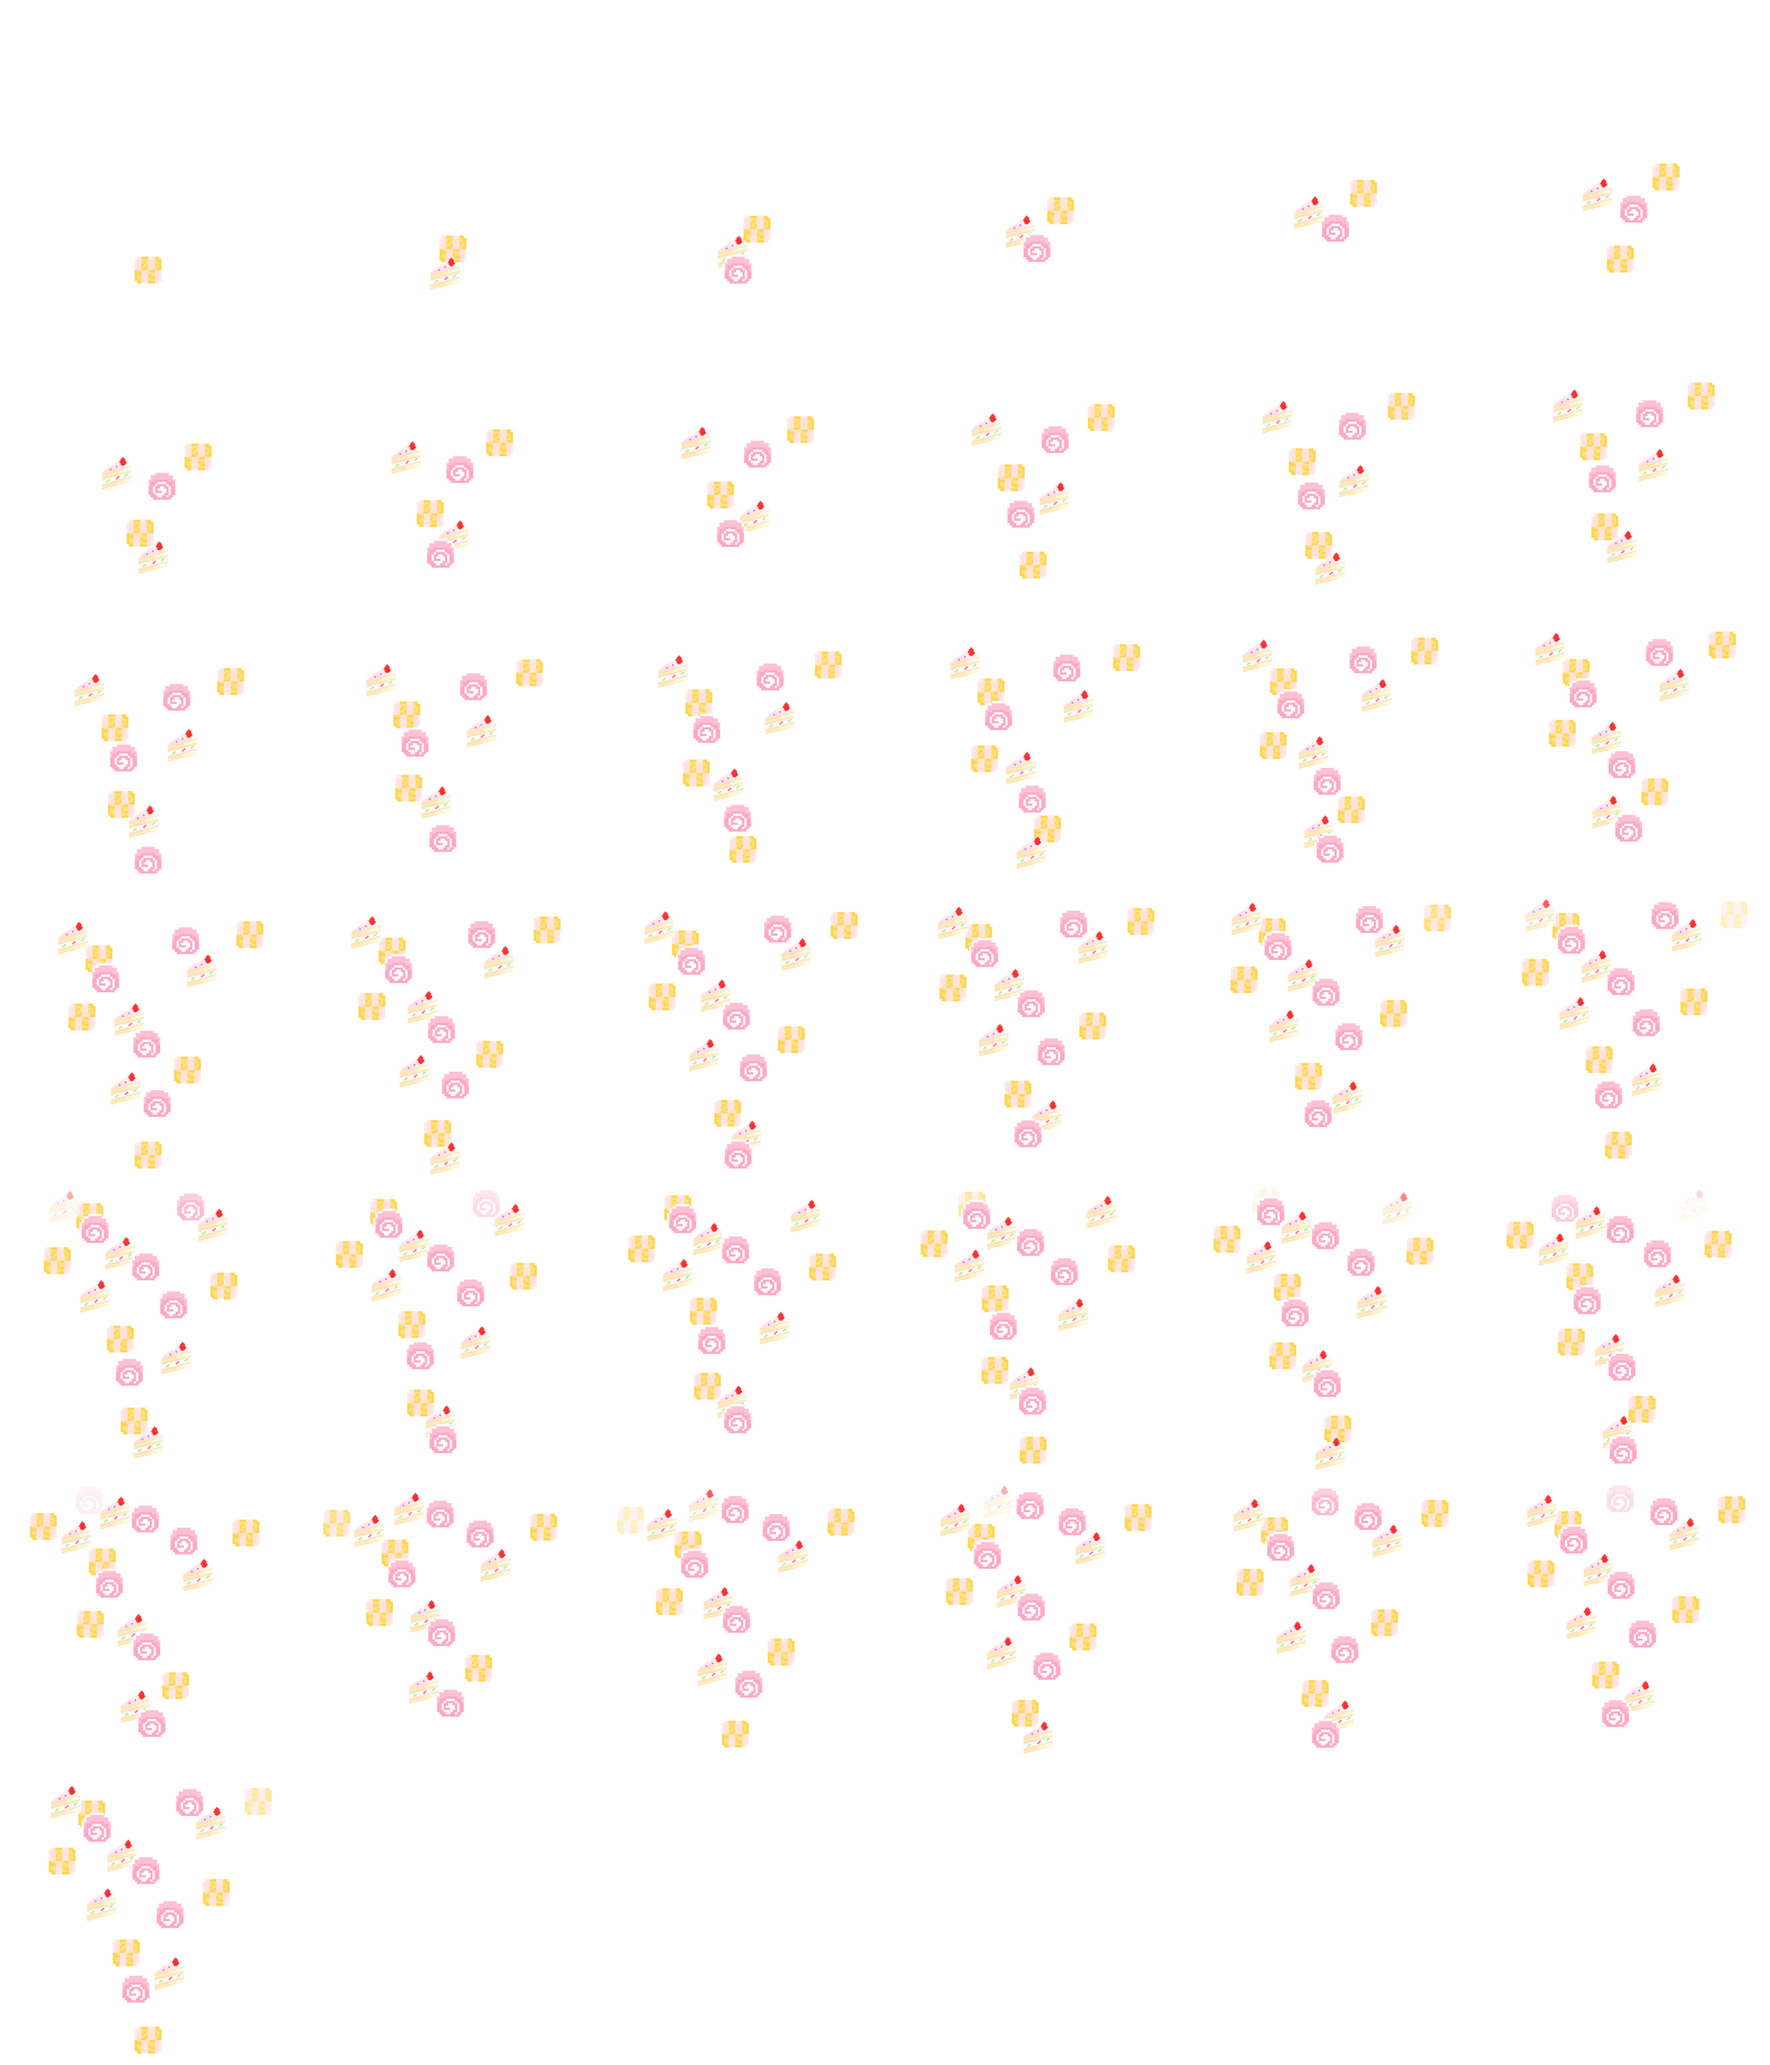
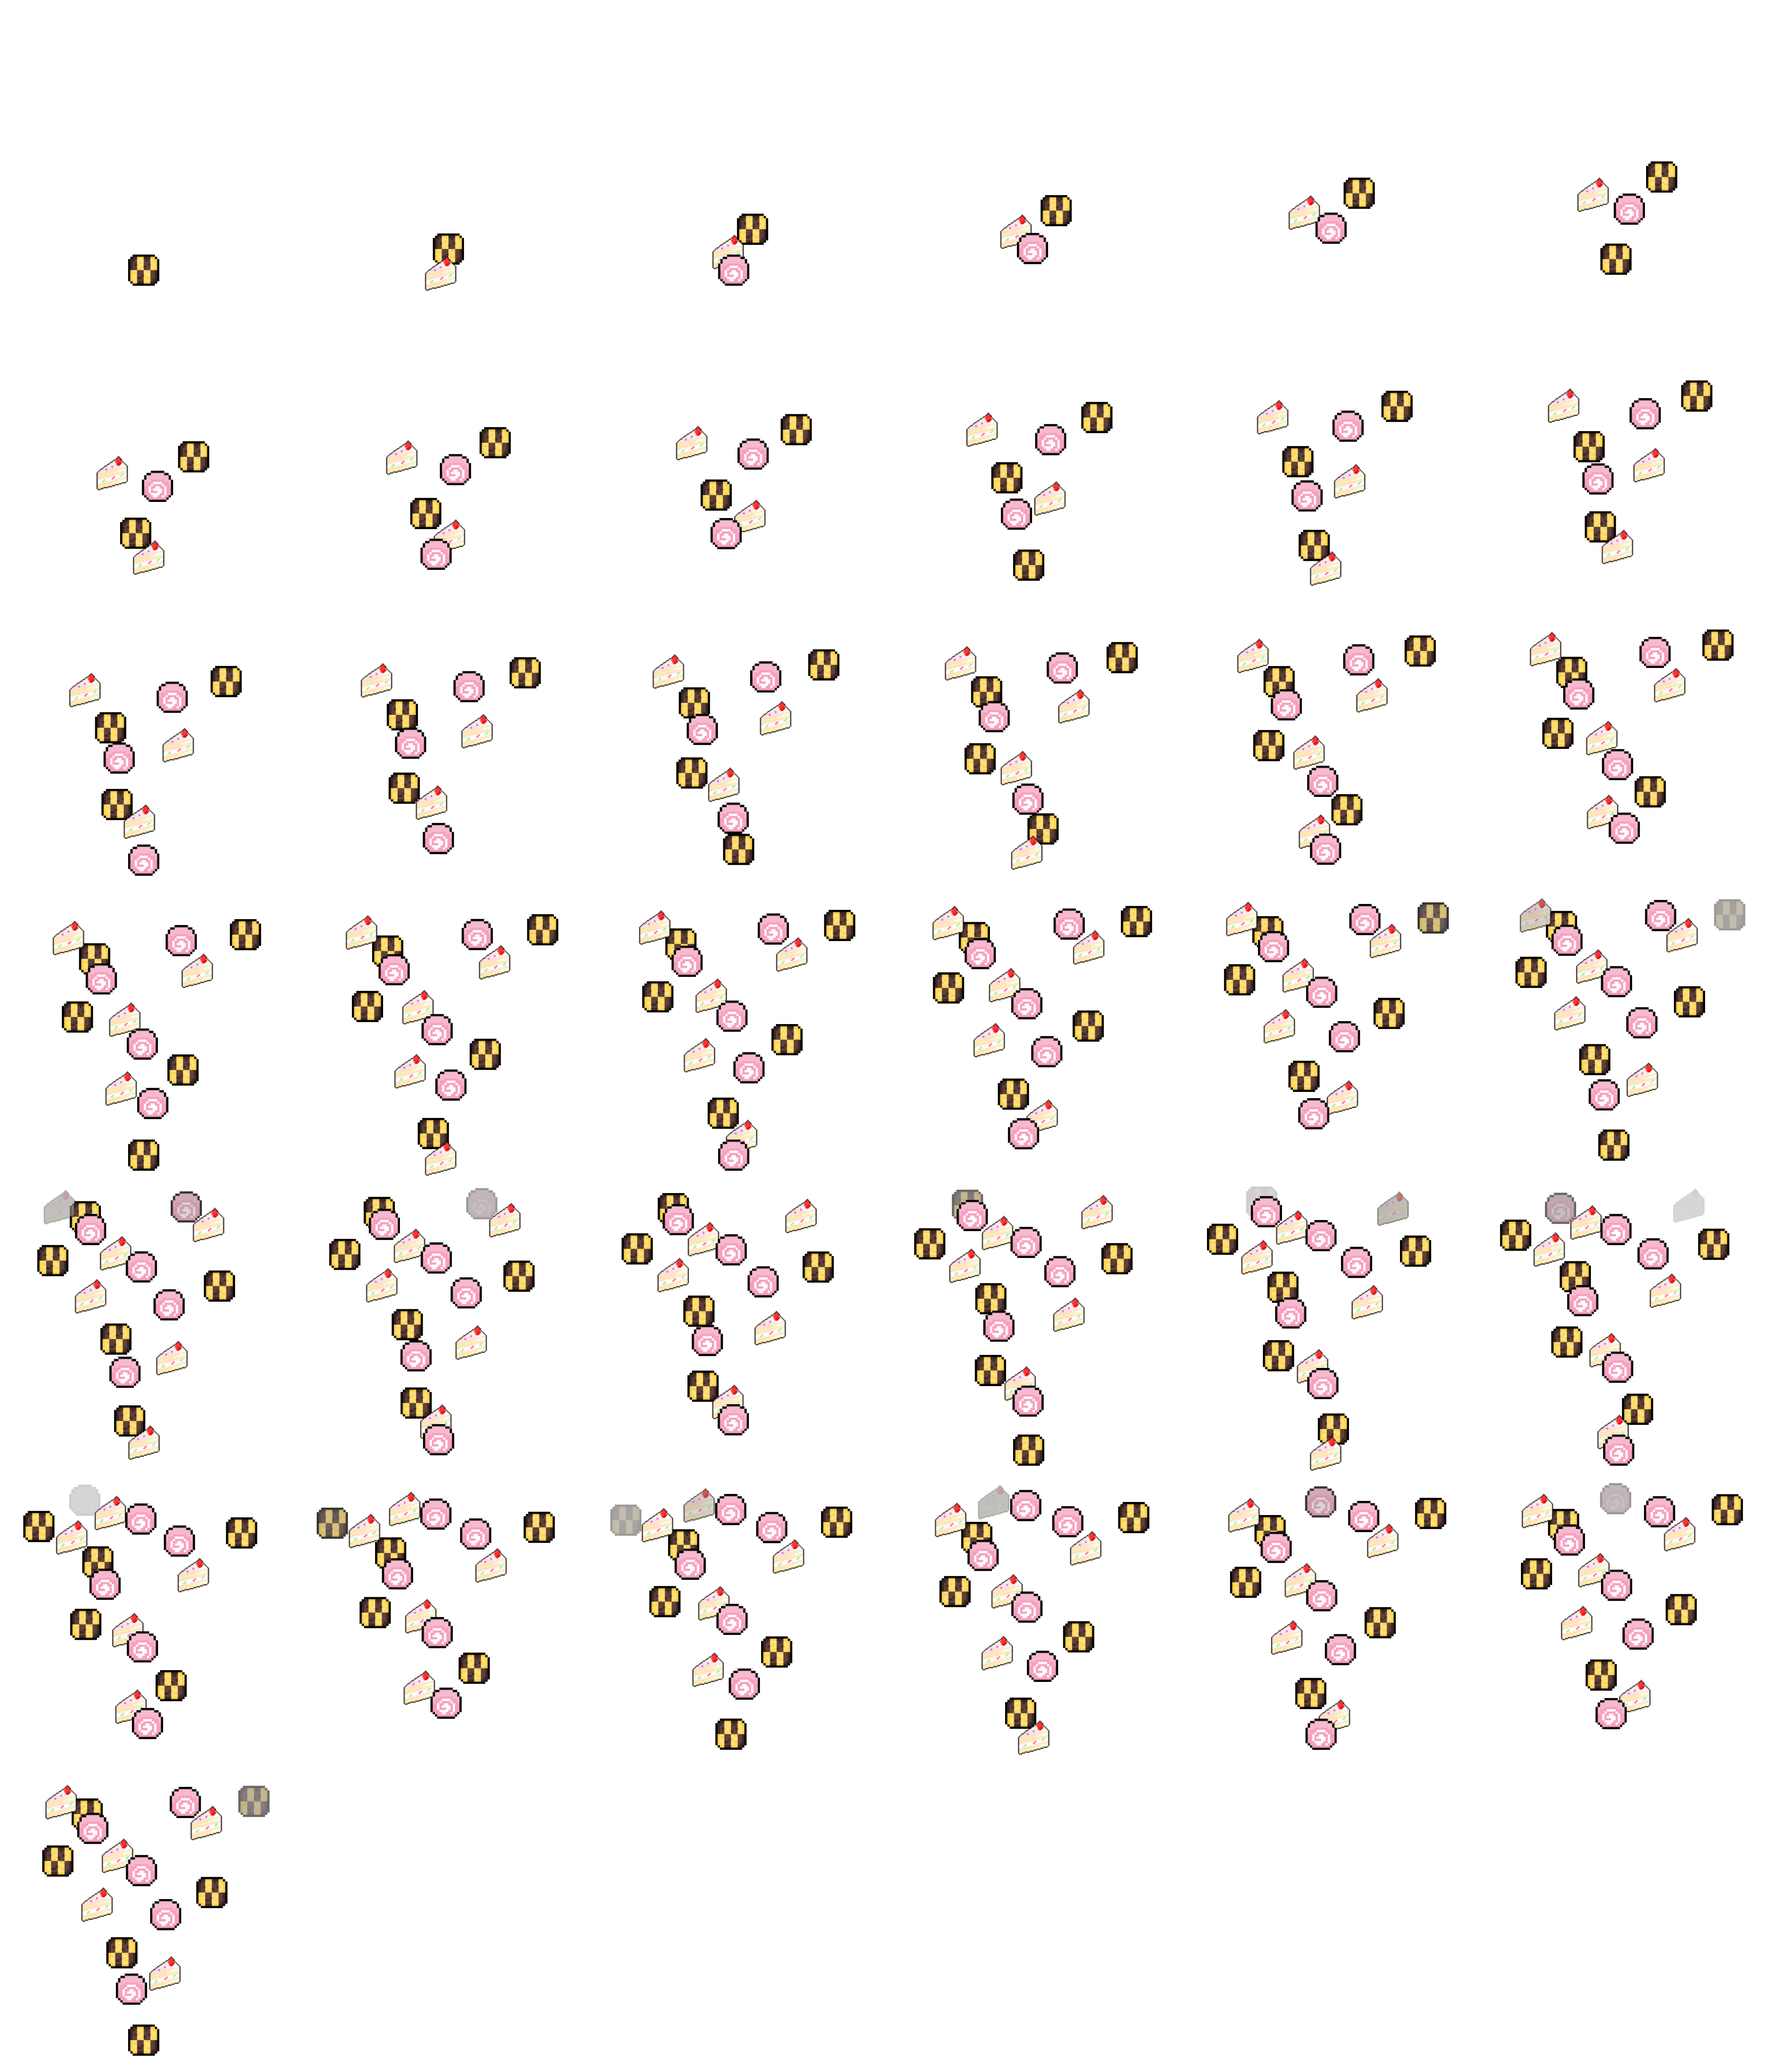
ゴールのアニメーション画像の変更

diff --git a/HewProject/HewProject/CGall.cpp b/HewProject/HewProject/CGall.cpp
@@ -33,7 +33,7 @@ void CGall::Update()
 		scale.x *= 1.5f;
 		scale.y *= 1.5f;
 		CEffect* set = EffectManeger::GetInstance()->Play(pos, scale, EffectManeger::FX_TYPE::BOX, true);
-		set->GetEffectAnim()->animSpeed =0.08f;
+		set->GetEffectAnim()->animSpeed =0.22f;
 		effect.push_back(set);
 		playEffect = true;
 	}
@@ -72,18 +72,39 @@ void CGall::Draw()
 
 void CGall::Open(D3DBUFFER vb ,float _animSpeedRate)
 {
+	for (auto it : effect)
+	{
+		CLASS_DELETE(it);
+	}
+		effect.clear();
 	dynamic_cast<GallAnim*>(mAnim)->PlayOpen(_animSpeedRate);
 	Vector3 pos = mTransform.pos;
-	pos.z -= 0.00001f;
-	pos.x += 0.0966 * mTransform.scale.x;
-	pos.y += 1.1f * mTransform.scale.y;
 	Vector3 scale = mTransform.scale;
-	scale.x *= 2.0;
-	scale.y *= 3.24f;
+	pos = mTransform.pos;
+	pos.z -= 0.00002f;
+	pos.x += 0.1206 * mTransform.scale.x;
+	pos.y -= 0.0866 * mTransform.scale.y;
+	scale = mTransform.scale;
+	scale.x *= 0.5f;
+	scale.y *= 0.4f;
+	CEffect* _set = EffectManeger::GetInstance()->Play(pos, scale, EffectManeger::FX_TYPE::BOX, true);
+	_set->GetEffectAnim()->animSpeed = 0.08f;
+	effect.push_back(_set);
+
+	pos = mTransform.pos;
+	scale = mTransform.scale;
+
+	pos.z -= 0.00003f;
+	pos.x += 0.1566 * mTransform.scale.x;
+	pos.y += 1.4f * mTransform.scale.y;
+	scale.x *= 3.0;
+	scale.y *= 3.24f; //1.62
 	CEffect* set = EffectManeger::GetInstance()->Play(pos, scale, EffectManeger::FX_TYPE::CLEAR, true);
 	set->GetEffectAnim()->animSpeed = 0.45f;
 	set->GetEffectAnim()->SetPattern(1);
 	set->SetVertexBuffer(vb);
 	//set->GetEffectAnim()->animSpeed = 0.08f;
 	effect.push_back(set);
+
+
 }

diff --git a/HewProject/HewProject/StageScene.cpp b/HewProject/HewProject/StageScene.cpp
@@ -452,10 +452,21 @@ void StageScene::StageMove()
 			player->GetPlayerMove()->CheckNextObjectType() == CGridObject::BlockType::GALL)
 		{
 			CGall* gallObj = dynamic_cast<CGall*>(GetStageObject(player->GetPlayerMove()->GetNextGridPos(), static_cast<CGridObject::BlockType>(player->GetPlayerMove()->CheckNextObjectType())));
+			player->dotween->DelayedCall(BREAK_TIME / 3.0f, [&]()
+				{
+					//player->GetPlayerAnim()->animSpeed = 0.0f;
+					player->GetPlayerAnim()->SetAnimSpeedRate(0.1f);
+				});
+			player->dotween->DelayedCall(BREAK_TIME / 2.7f, [&]()
+				{
+					player->GetPlayerAnim()->SetAnimSpeedRate(3.5f);
+				});
 			player->dotween->DelayedCall(BREAK_TIME /2.0f, [&,gallObj]()
 				{
-					//CCamera::GetInstance()->Zoom(0.2f,stageScale);
-					gallObj->Open(clearBuffer);
+					Vector2 pos = { gallObj->mTransform.pos.x ,gallObj->mTransform.pos.y };
+					//pos.y += 0.8f;
+					CCamera::GetInstance()->Zoom(0.2f, stageScale, { pos.x,pos.y, 0});
+					//gallObj->Open(clearBuffer);
 				});
 		}
 

diff --git a/HewProject/HewProject/CCamera.cpp b/HewProject/HewProject/CCamera.cpp
@@ -37,9 +37,11 @@ void CCamera::Zoom()
 	}
 }
 
-void CCamera::Zoom(float _targetScale, float _stageScale)
+void CCamera::Zoom(float _targetScale, float _stageScale , Vector3 _targetPos)
 {
-	scaleScreen = _targetScale * _stageScale;
+	mTransform.scale.x = _targetScale * _stageScale;
+	mTransform.scale.y = _targetScale * _stageScale;
+	mTransform.pos = _targetPos;
 }
 
 void CCamera::Reduction()
@@ -63,6 +65,7 @@ void CCamera::Init()
 {
 	mTransform.pos = { 0, 0, 0 };
 	mTransform.rotation.z = 0.0f;
+	mTransform.scale = { 1.0f,1.0f,1.0f };
 }
 
 
